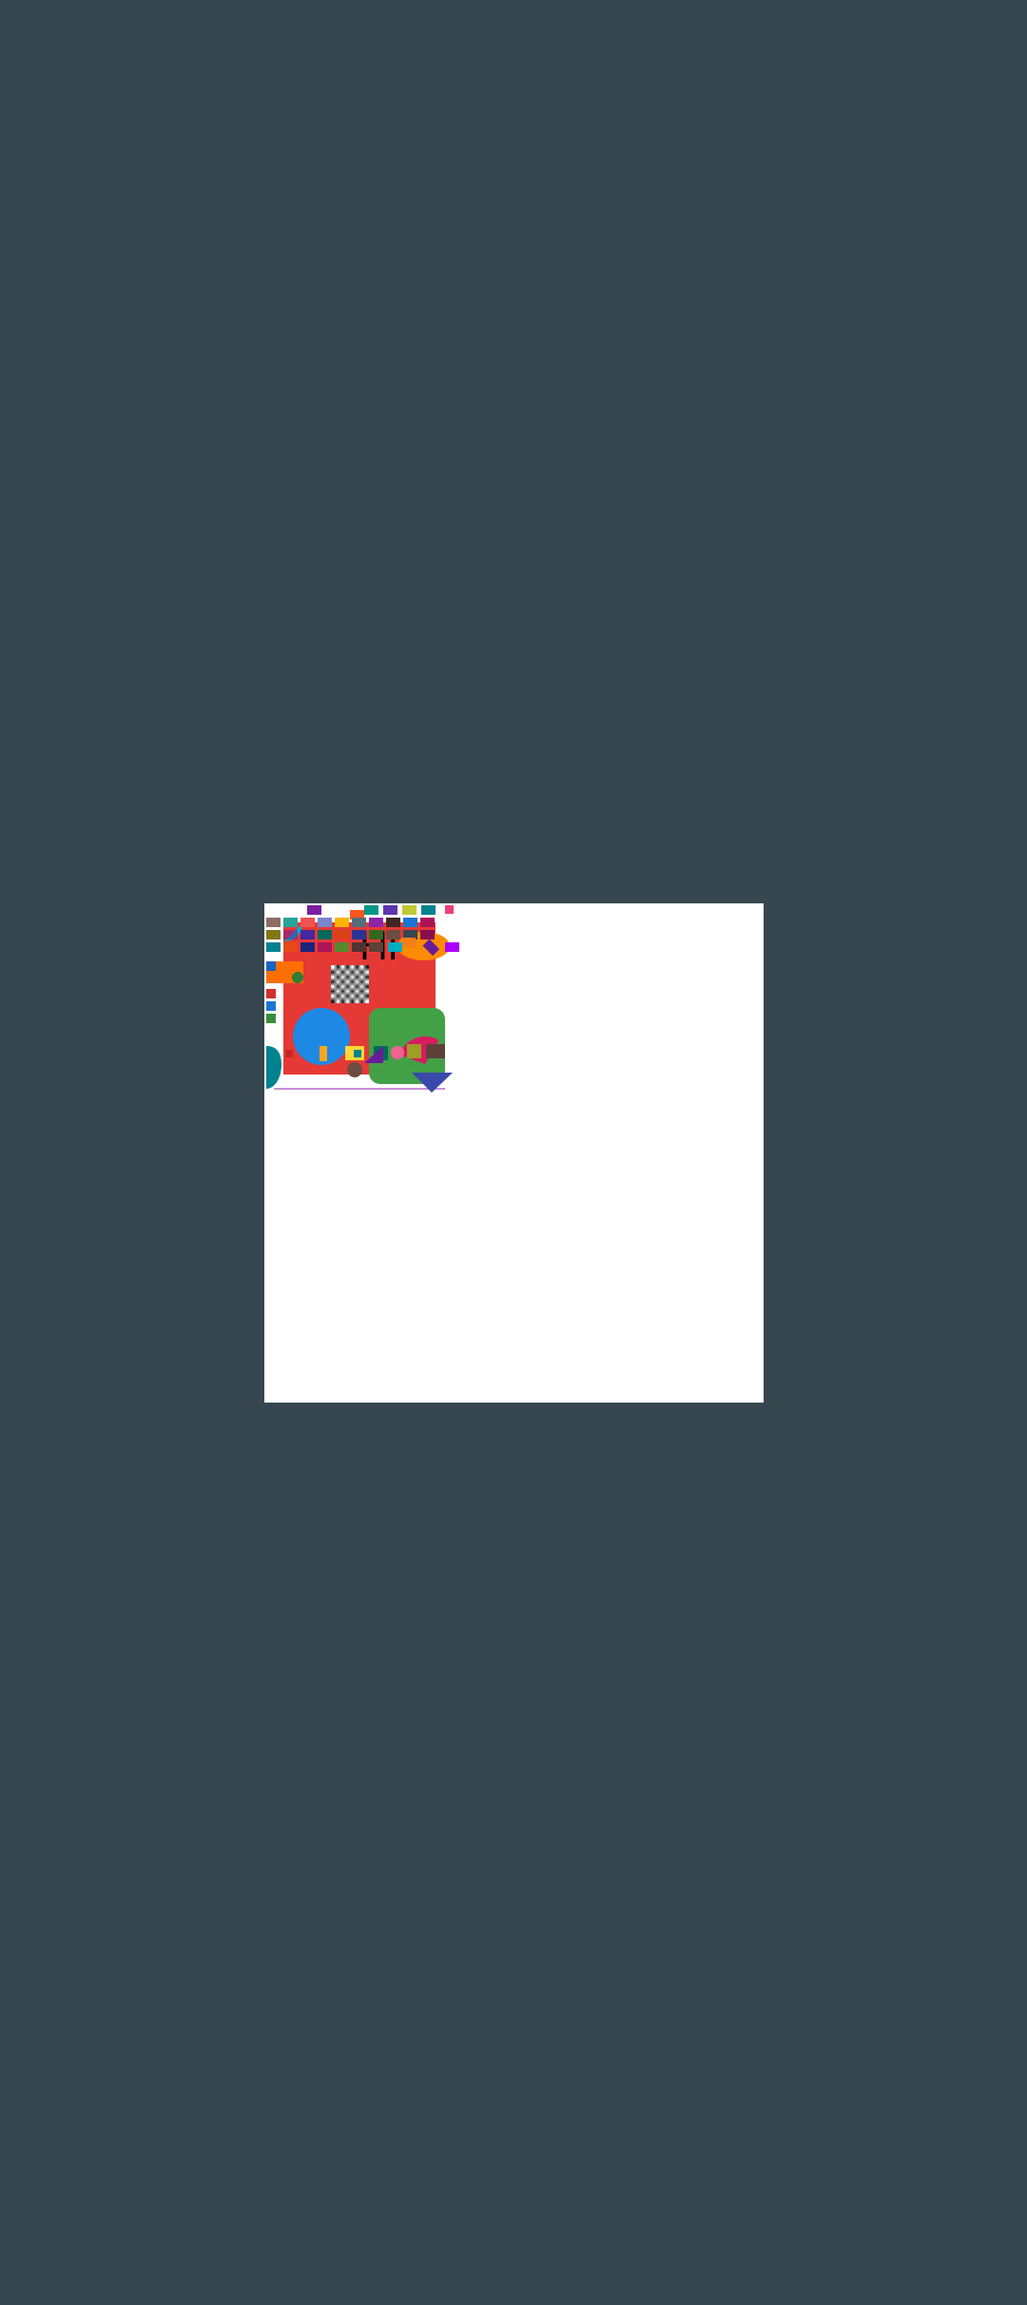
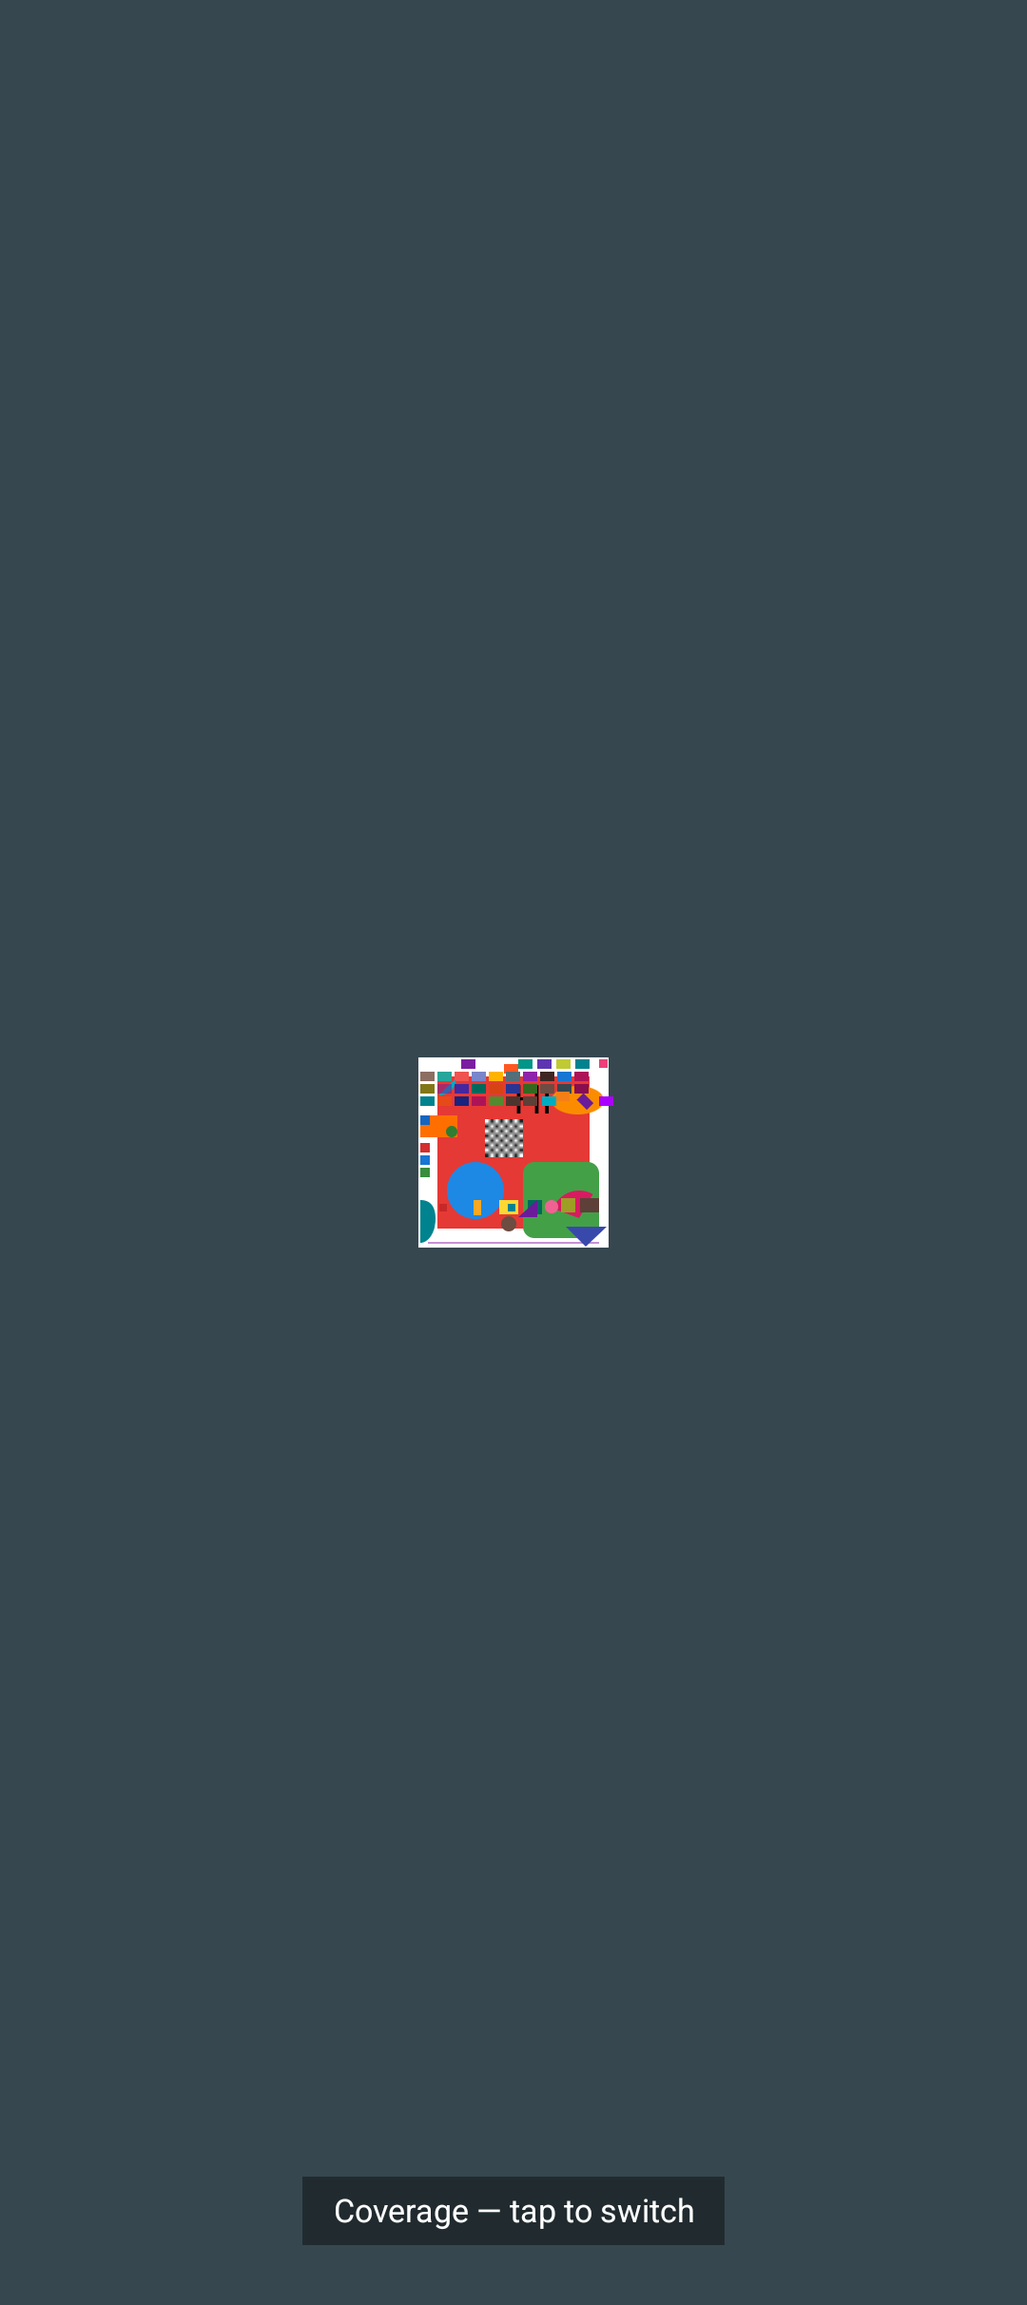
Wire the showcase into iOS/Android; fix a real density-scaling bug found along the way
The user's ask was simple — "wire the showcase into the iOS and Android
apps" — but doing that surfaced a real, previously-invisible bug: both
device screens have always rendered every payload (including every
opcode-coverage test this whole project's alternating loop has been
screenshotting) shrunk to roughly 1/density of its intended size,
sitting in the top-left corner of an oversized canvas. It was never
visually obvious because a small shape in the corner of a mostly-white
box still "looks like a reasonable rendered scene" at a glance, and
every visual comparison so far was qualitative (matching proportions
across screenshots), never a precise pixel-coordinate measurement.

Root cause: RealPayloadDemoScreen sized its Canvas via
`Modifier.size(document.header.width.dp, document.header.height.dp)`.
A dp value gets multiplied by device density to become physical
pixels, but OpcodeExecutor's own draw calls use the .rc document's
raw coordinates directly as physical pixels, with no density
conversion anywhere. On a real device (measured density ~2.62), a
"200-unit" document got a canvas sized to 524 physical pixels, and
content laid out for a 200x200 space rendered into the top-left ~38%
of it. Fixed by converting through LocalDensity (`with(density) {
document.header.width.toDp() }`) so the Canvas is sized to exactly
document.header.width/height *physical* pixels regardless of density
— confirmed via direct pixel measurement (not just visual comparison)
[…]

Changed region(s): [[0.2444, 0.3713, 0.7639, 0.6188], [0.275, 0.9282, 0.7028, 0.9901]]

diff --git a/src/commonMain/kotlin/com/example/remotecompose/parser/RealRemoteComposeParser.kt b/src/commonMain/kotlin/com/example/remotecompose/parser/RealRemoteComposeParser.kt
@@ -769,6 +769,57 @@ object RealRemoteComposeParser {
         }
 
         /**
+         * Returns a copy of [op] with every absolute coordinate shifted by ([dx], [dy]) — used by
+         * [arrangeChildren] as the reliable alternative to wrapping a child's range in a
+         * MatrixSave/Translate/MatrixRestore triple when that range contains [Opcode.DrawText] (see
+         * that call site's KDoc for why). Path/list-shaped payloads ([Opcode.DrawPath]) are shifted
+         * point-by-point; opcodes with no absolute position (transform/clip control, [Opcode.Unknown])
+         * pass through unchanged, since a relative op's own delta stays correct under an outer shift.
+         */
+        fun shiftOpcode(op: Opcode, dx: Float, dy: Float): Opcode = when (op) {
+            is Opcode.DrawRect -> op.copy(
+                left = op.left + dx, top = op.top + dy, right = op.right + dx, bottom = op.bottom + dy,
+            )
+            is Opcode.DrawRoundRect -> op.copy(
+                left = op.left + dx, top = op.top + dy, right = op.right + dx, bottom = op.bottom + dy,
+            )
+            is Opcode.DrawOval -> op.copy(
+                left = op.left + dx, top = op.top + dy, right = op.right + dx, bottom = op.bottom + dy,
+            )
+            is Opcode.DrawArc -> op.copy(
+                left = op.left + dx, top = op.top + dy, right = op.right + dx, bottom = op.bottom + dy,
+            )
+            is Opcode.DrawBitmap -> op.copy(
+                left = op.left + dx, top = op.top + dy, right = op.right + dx, bottom = op.bottom + dy,
+            )
+            is Opcode.DrawCircle -> op.copy(centerX = op.centerX + dx, centerY = op.centerY + dy)
+            is Opcode.DrawLine -> op.copy(x1 = op.x1 + dx, y1 = op.y1 + dy, x2 = op.x2 + dx, y2 = op.y2 + dy)
+            is Opcode.ClipRect -> op.copy(
+                left = op.left + dx, top = op.top + dy, right = op.right + dx, bottom = op.bottom + dy,
+            )
+            is Opcode.ActionClick -> op.copy(
+                left = op.left + dx, top = op.top + dy, right = op.right + dx, bottom = op.bottom + dy,
+            )
+            is Opcode.DrawText -> op.copy(x = op.x + dx, y = op.y + dy)
+            is Opcode.DrawPath -> op.copy(commands = op.commands.map { command ->
+                when (command) {
+                    is PathCommand.MoveTo -> command.copy(x = command.x + dx, y = command.y + dy)
+                    is PathCommand.LineTo -> command.copy(x = command.x + dx, y = command.y + dy)
+                    is PathCommand.QuadraticTo -> command.copy(
+                        x1 = command.x1 + dx, y1 = command.y1 + dy, x2 = command.x2 + dx, y2 = command.y2 + dy,
+                    )
+                    is PathCommand.CubicTo -> command.copy(
+                        x1 = command.x1 + dx, y1 = command.y1 + dy,
+                        x2 = command.x2 + dx, y2 = command.y2 + dy,
+                        x3 = command.x3 + dx, y3 = command.y3 + dy,
+                    )
+                    PathCommand.Close -> command
+                }
+            })
+            else -> op
+        }
+
+        /**
          * Returns `(leadingGap, betweenGap)` for [mode] given [extraSpace] (container main-axis
          * extent minus the children's own packed-together size; 0 or negative when the container
          * has no known extent bigger than its content, in which case every mode below correctly
@@ -863,8 +914,20 @@ object RealRemoteComposeParser {
                 val delta = deltas[i] ?: continue
                 if (delta[0] == 0f && delta[1] == 0f) continue
                 val range = children[i]
-                opcodes.add(range[1], Opcode.MatrixRestore)
-                opcodes.addAll(range[0], listOf(Opcode.MatrixSave, Opcode.Translate(delta[0], delta[1])))
+                // Rewrite every opcode's own coordinates directly instead of wrapping the range in
+                // MatrixSave/Translate/MatrixRestore. A real on-device Compose Canvas target was
+                // confirmed (via a minimal, isolated repro) to corrupt DrawText positioning — even
+                // *unwrapped* DrawText elsewhere in the same render — after two or more repeated
+                // canvas.save()/translate()/restore() cycles from sibling arranged children, the
+                // exact shape every stat card's icon-then-value-then-label triplet has. Since a
+                // shape's own position is just as easy to rewrite directly as text's, arrangeChildren
+                // never emits real Matrix ops at all — sidestepping the bug at its root rather than
+                // only where it was first noticed. Nested Translate/MatrixSave/MatrixRestore inside
+                // this range (from an inner, already-arranged nested Column/Row) pass through
+                // shiftOpcode unchanged, since a relative delta stays correct under an outer shift.
+                for (j in range[0] until range[1]) {
+                    opcodes[j] = shiftOpcode(opcodes[j], delta[0], delta[1])
+                }
             }
         }
 

diff --git a/tools/rc-writer/src/main/kotlin/Main.kt b/tools/rc-writer/src/main/kotlin/Main.kt
@@ -22,7 +22,73 @@ fun main(args: Array<String>) {
         buildShowcase()
         return
     }
+    if (args.getOrNull(0) == "texttest") {
+        buildTextTransformTest()
+        return
+    }
     buildCoverageSample()
+}
+
+/**
+ * Minimal repro of an unresolved Compose Multiplatform/Skiko rendering bug, kept for whoever picks
+ * this up next: this exact sequence of `drawText`/`drawRect`/`drawCircle` calls — all absolute
+ * coordinates, *zero* transform opcodes (MatrixSave/Translate/MatrixRestore are entirely absent
+ * from the parsed opcode list; verified) — renders correctly on the headless Desktop demo
+ * (`runDesktopDemo`, an offscreen *software* Skia raster surface), but on a real on-screen Canvas
+ * composable backed by GPU-accelerated Skiko — confirmed on *both* a real Android emulator and a
+ * real iOS Simulator — "Users"/"Orders"/"Uptime" render on top of "Activity" instead of below it,
+ * even though their coordinates are unambiguously non-overlapping (verified directly from the
+ * parsed opcode dump). Removing the trailing DrawCircle calls after "Activity" (the showcase's
+ * avatar row) makes the bug disappear; nothing about *why* trailing shape draws corrupt an
+ * earlier, already-issued DrawText call's position was found despite extensive isolation (ruled
+ * out: MatrixSave/Restore involvement, string content/length, color, draw-call repetition count,
+ * leading vs. trailing position of the affected text). Given it reproduces identically on two
+ * independent GPU-backed platforms but never on the software-only one, this looks like a genuine
+ * upstream Skiko/Compose Multiplatform issue in how on-screen `drawText` interacts with later draw
+ * calls in the same frame, not a bug in this renderer's own opcode handling.
+ */
+private fun buildTextTransformTest() {
+    val platform = JvmRcPlatformServices()
+    val writer = RemoteComposeWriter(360, 420, "texttest", platform)
+    // Exact replica of the real showcase's parsed opcode list — same 18 opcodes, same absolute
+    // coordinates verbatim from that dump — to rule out any mistake in a hand-approximated test
+    // coordinate ever having accidentally overlapped another one (it did, on an earlier attempt).
+    fun text(s: String, x: Float, y: Float, argb: Int) {
+        writer.getRcPaint().setColor(argb).commit()
+        writer.drawTextAnchored(s, x, y, 0f, 0f, 0)
+    }
+    val navy = 0xFF1A237E.toInt()
+    val slate = 0xFF546E7A.toInt()
+    writer.getRcPaint().setColor(0xFFE3F2FD.toInt()).commit()
+    writer.drawRect(20f, 63.2f, 64f, 133.6f)
+    writer.getRcPaint().setColor(0xFF1E88E5.toInt()).commit()
+    writer.drawCircle(42f, 73.2f, 10f)
+    text("128", 28.8f, 89.2f, navy)
+    text("Users", 20f, 114.4f, slate)
+    writer.getRcPaint().setColor(0xFFE8F5E9.toInt()).commit()
+    writer.drawRect(64f, 57.2f, 116.8f, 139.6f)
+    writer.getRcPaint().setColor(0xFF43A047.toInt()).commit()
+    writer.drawCircle(90.4f, 73.2f, 16f)
+    text("42", 81.6f, 95.2f, navy)
+    text("Orders", 64f, 120.4f, slate)
+    writer.getRcPaint().setColor(0xFFFFF3E0.toInt()).commit()
+    writer.drawRect(116.8f, 60.2f, 169.6f, 136.6f)
+    writer.getRcPaint().setColor(0xFFFB8C00.toInt()).commit()
+    writer.drawCircle(143.2f, 73.2f, 13f)
+    text("97%", 130f, 92.2f, navy)
+    text("Uptime", 116.8f, 117.4f, slate)
+    text("Activity", 20f, 157.6f, navy)
+    writer.getRcPaint().setColor(0xFFE53935.toInt()).commit()
+    writer.drawCircle(30f, 210.8f, 10f)
+    writer.getRcPaint().setColor(0xFF8E24AA.toInt()).commit()
+    writer.drawCircle(56f, 210.8f, 16f)
+    writer.getRcPaint().setColor(0xFF00897B.toInt()).commit()
+    writer.drawCircle(84f, 210.8f, 12f)
+    writer.getRcPaint().setColor(0xFFFDD835.toInt()).commit()
+    writer.drawCircle(104f, 210.8f, 8f)
+    val bytes = writer.encodeToByteArray()
+    File("texttest.rc").writeBytes(bytes)
+    println("wrote ${bytes.size} bytes to texttest.rc")
 }
 
 /**

diff --git a/src/commonMain/kotlin/com/example/remotecompose/demo/ShowcasePayload.kt b/src/commonMain/kotlin/com/example/remotecompose/demo/ShowcasePayload.kt
@@ -1,0 +1,45 @@
+package com.example.remotecompose.demo
+
+import kotlin.io.encoding.Base64
+import kotlin.io.encoding.ExperimentalEncodingApi
+
+/**
+ * Base64 of `tools/rc-writer/showcase.rc` (generated by `Main.kt`'s `buildShowcase()`, run via
+ * `./gradlew :tools:rc-writer:run --args="showcase"`) — a real `.rc` "dashboard card" UI, built to
+ * demonstrate this renderer's real Column/Row arrangement and alignment-mode support (unlike
+ * [SAMPLE_RC_BYTES], which is a dense grid of isolated opcode-coverage probes, not meant to look
+ * like anything).
+ *
+ * A title, a row of three stat cards (a colored icon circle + a value + a label, each in its own
+ * nested `startColumn`/`endColumn` wrapped in a `startBox`/`endBox` carrying a real `background()`
+ * modifier) laid out with `RowLayout.SPACE_EVENLY`/`.CENTER` against a real declared `width()`, a
+ * subtitle, and a row of four different-radius "avatar" circles laid out with `.SPACE_BETWEEN`/
+ * `.CENTER`. Every child at every nesting level is deliberately drawn at placeholder/overlapping
+ * local coordinates in the source document (the three stat cards' inner content all starts at the
+ * same local origin; the avatar circles are all centered at their own `(radius, radius)`) — every
+ * bit of the final on-screen layout comes from this renderer's own arrangement code, not
+ * document-authored placement. Shared by every platform demo entry point so they render
+ * byte-identical input, same rationale as [SAMPLE_RC_BYTES].
+ */
+@OptIn(ExperimentalEncodingApi::class)
+val SHOWCASE_RC_BYTES: ByteArray by lazy {
+    Base64.decode(
[16 lines of base64/hex data omitted]
+            "/8soAAAAAgAAAAT//dg1LkEAAABBAAAAQQAAANbW1tbW1tbW"
+    )
+}

diff --git a/src/commonMain/kotlin/com/example/remotecompose/demo/DemoScreen.kt b/src/commonMain/kotlin/com/example/remotecompose/demo/DemoScreen.kt
@@ -1,0 +1,52 @@
+package com.example.remotecompose.demo
+
+import androidx.compose.foundation.background
+import androidx.compose.foundation.gestures.detectTapGestures
+import androidx.compose.foundation.layout.Box
+import androidx.compose.foundation.layout.fillMaxSize
+import androidx.compose.foundation.layout.padding
+import androidx.compose.foundation.text.BasicText
+import androidx.compose.runtime.Composable
+import androidx.compose.runtime.getValue
+import androidx.compose.runtime.mutableStateOf
+import androidx.compose.runtime.remember
+import androidx.compose.runtime.setValue
+import androidx.compose.ui.Alignment
+import androidx.compose.ui.Modifier
+import androidx.compose.ui.graphics.Color
+import androidx.compose.ui.input.pointer.pointerInput
+import androidx.compose.ui.text.TextStyle
+import androidx.compose.ui.text.style.TextAlign
+import androidx.compose.ui.unit.dp
+import androidx.compose.ui.unit.sp
+
+/**
+ * The actual app entry point on both platforms (see `MainActivity.kt` / `MainViewController.kt`):
+ * owns which of the two real payloads [RealPayloadDemoScreen] is currently rendering, and a plain
+ * tap anywhere on the screen swaps between them — [SAMPLE_RC_BYTES] (the dense opcode-coverage
+ * probe grid this loop's byte-coverage iterations verify against) and [SHOWCASE_RC_BYTES] (the
+ * "dashboard card" this loop's layout-engine iterations verify against, meant to actually look
+ * like something). Both are real `.rc` payloads from the official writer, decoded and rendered
+ * through the exact same [RealPayloadDemoScreen] path — this composable adds nothing to that,
+ * it's purely a demo-host switcher.
+ */
+@Composable
+fun DemoScreen() {
+    var showcase by remember { mutableStateOf(false) }
+    Box(
+        modifier = Modifier
+            .fillMaxSize()
+            .pointerInput(Unit) { detectTapGestures { showcase = !showcase } },
+    ) {
+        RealPayloadDemoScreen(if (showcase) SHOWCASE_RC_BYTES else SAMPLE_RC_BYTES)
+        BasicText(
+            text = if (showcase) "Showcase — tap to switch" else "Coverage — tap to switch",
+            style = TextStyle(color = Color.White, fontSize = 13.sp, textAlign = TextAlign.Center),
+            modifier = Modifier
+                .align(Alignment.BottomCenter)
+                .padding(bottom = 24.dp)
+                .background(Color(0x66000000))
+                .padding(horizontal = 12.dp, vertical = 6.dp),
+        )
+    }
+}

diff --git a/src/commonMain/kotlin/com/example/remotecompose/demo/RealPayloadDemoScreen.kt b/src/commonMain/kotlin/com/example/remotecompose/demo/RealPayloadDemoScreen.kt
@@ -10,8 +10,8 @@ import androidx.compose.runtime.remember
 import androidx.compose.ui.Alignment
 import androidx.compose.ui.Modifier
 import androidx.compose.ui.graphics.Color
+import androidx.compose.ui.platform.LocalDensity
 import androidx.compose.ui.text.rememberTextMeasurer
-import androidx.compose.ui.unit.dp
 import com.example.remotecompose.engine.OpcodeExecutor
 import com.example.remotecompose.engine.RenderContext
 import com.example.remotecompose.parser.RealRemoteComposeParser
@@ -39,11 +39,27 @@ fun RealPayloadDemoScreen(bytes: ByteArray) {
     val textMeasurer = rememberTextMeasurer()
     val renderContext = remember(document, textMeasurer) { RenderContext(document, textMeasurer) }
 
+    // The .rc wire format's coordinates are raw device-independent-ish units matching
+    // document.header.width/height 1:1 — every opcode's x/y/left/top/etc is drawn straight into
+    // DrawScope, which is a *physical-pixel* space, with no density conversion applied anywhere
+    // in OpcodeExecutor. Sizing this Canvas via `.dp` would be wrong: Compose scales a dp value by
+    // the device's density to get physical pixels, so on anything but a 1x-density device the
+    // Canvas would end up *larger* than document.header.width/height actual pixels, and the
+    // (density-unaware) opcode coordinates would only fill roughly `1/density` of it — exactly
+    // what happened before this fix (confirmed via pixel measurement on a real device: content
+    // consistently rendered shrunk into a corner, not merely "small margins"). Converting through
+    // LocalDensity here sizes the Canvas to exactly document.header.width/height *physical*
+    // pixels regardless of density, matching the coordinate space OpcodeExecutor actually draws
+    // in.
+    val density = LocalDensity.current
+    val canvasWidth = with(density) { document.header.width.toDp() }
+    val canvasHeight = with(density) { document.header.height.toDp() }
+
     Box(
         modifier = Modifier.fillMaxSize().background(Color(0xFF37474F)),
         contentAlignment = Alignment.Center,
     ) {
-        Canvas(modifier = Modifier.size(document.header.width.dp, document.header.height.dp)) {
+        Canvas(modifier = Modifier.size(canvasWidth, canvasHeight)) {
             drawRect(color = Color.White, size = size)
             OpcodeExecutor.render(this, document.opcodes, renderContext)
         }

diff --git a/androidApp/src/main/kotlin/com/example/remotecompose/androidapp/MainActivity.kt b/androidApp/src/main/kotlin/com/example/remotecompose/androidapp/MainActivity.kt
@@ -7,13 +7,12 @@ import androidx.activity.enableEdgeToEdge
 import androidx.core.view.WindowCompat
 import androidx.core.view.WindowInsetsCompat
 import androidx.core.view.WindowInsetsControllerCompat
-import com.example.remotecompose.demo.RealPayloadDemoScreen
-import com.example.remotecompose.demo.SAMPLE_RC_BYTES
+import com.example.remotecompose.demo.DemoScreen
 
 /**
- * Hosts the same [RealPayloadDemoScreen] + [SAMPLE_RC_BYTES] the iOS demo
- * (`MainViewController.kt`) uses, so the two platforms render byte-identical input through the
- * shared `OpcodeExecutor` — the point being a direct visual cross-check, not two different demos.
+ * Hosts the same [DemoScreen] the iOS demo (`MainViewController.kt`) uses, so the two platforms
+ * render byte-identical input through the shared `OpcodeExecutor` — the point being a direct
+ * visual cross-check, not two different demos.
  *
  * System bars are hidden so cross-platform screenshots compare the rendered content directly,
  * without a status bar/nav bar overlapping it on one platform but not the other.
@@ -28,7 +27,7 @@ class MainActivity : ComponentActivity() {
             systemBarsBehavior = WindowInsetsControllerCompat.BEHAVIOR_SHOW_TRANSIENT_BARS_BY_SWIPE
         }
         setContent {
-            RealPayloadDemoScreen(SAMPLE_RC_BYTES)
+            DemoScreen()
         }
     }
 }

diff --git a/src/iosMain/kotlin/com/example/remotecompose/demo/MainViewController.kt b/src/iosMain/kotlin/com/example/remotecompose/demo/MainViewController.kt
@@ -5,5 +5,5 @@ import platform.UIKit.UIViewController
 
 /** Entry point called from Swift (`ComposeApp.swift`) to host the round-trip demo in a UIKit view controller. */
 fun MainViewController(): UIViewController = ComposeUIViewController {
-    RealPayloadDemoScreen(SAMPLE_RC_BYTES)
+    DemoScreen()
 }
